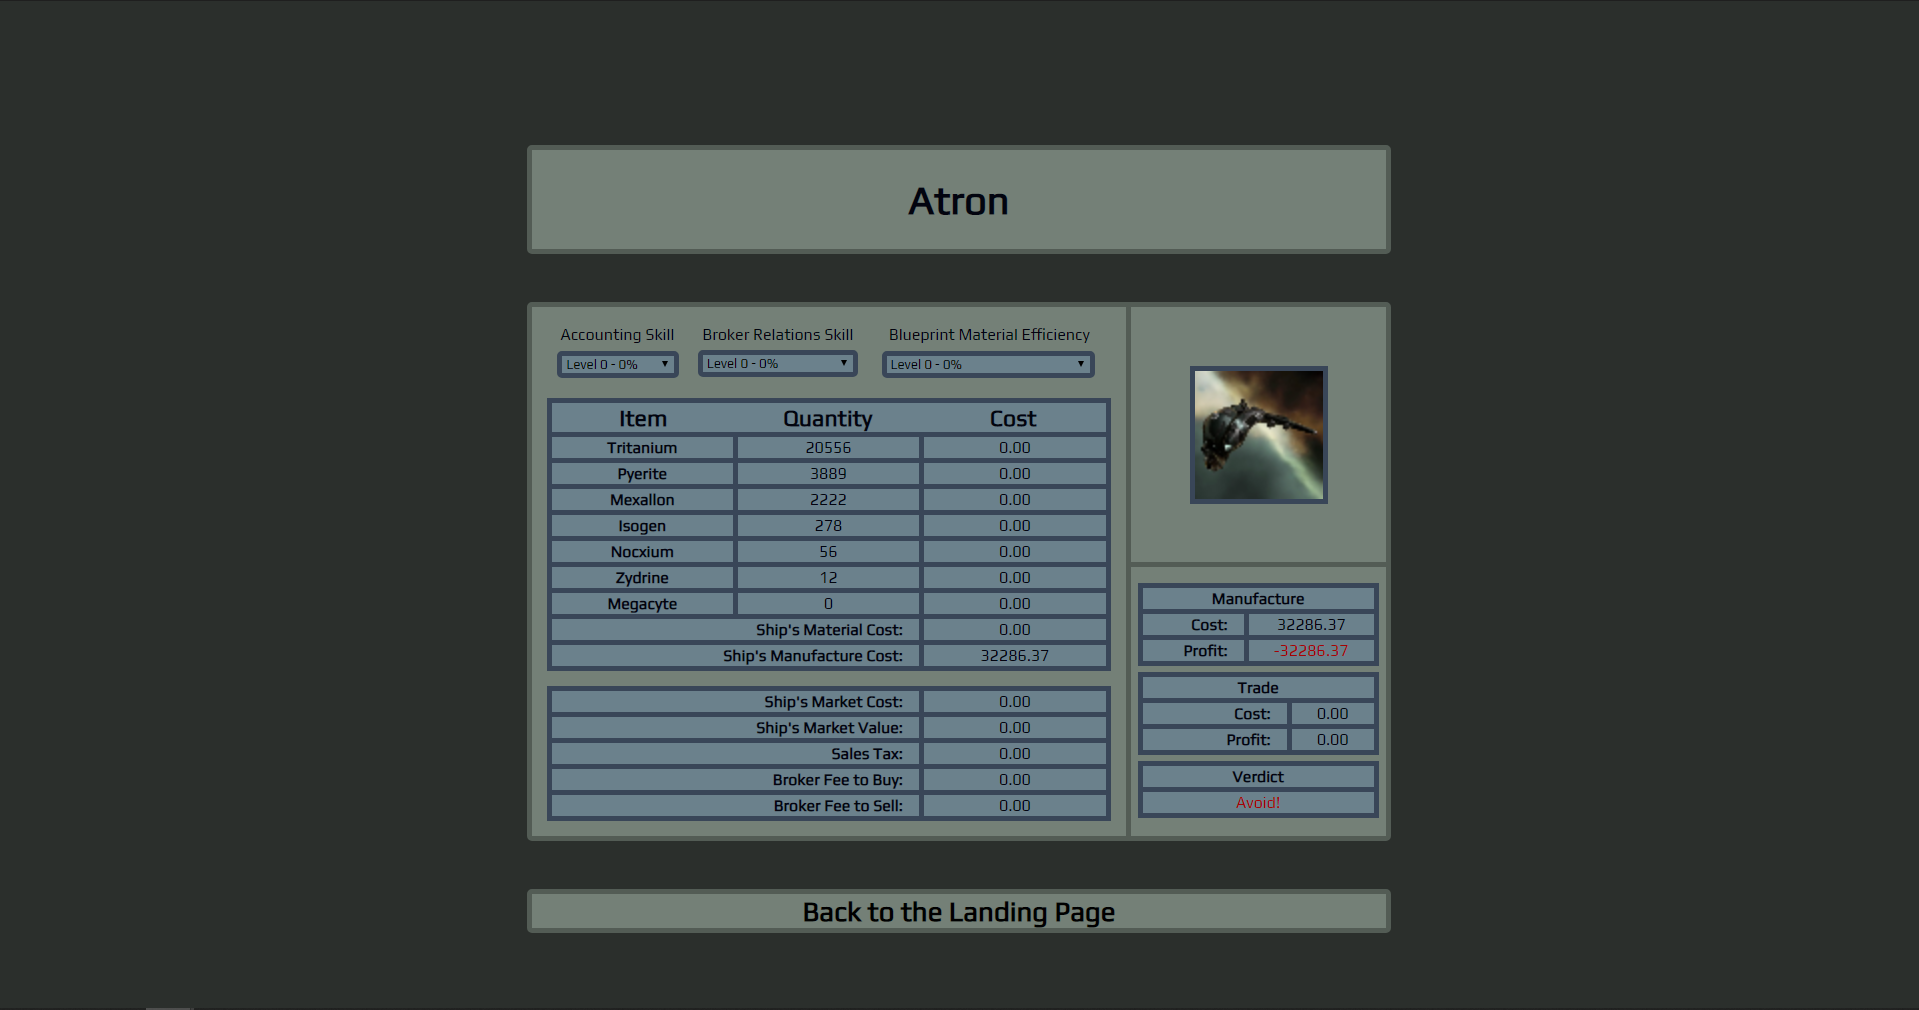
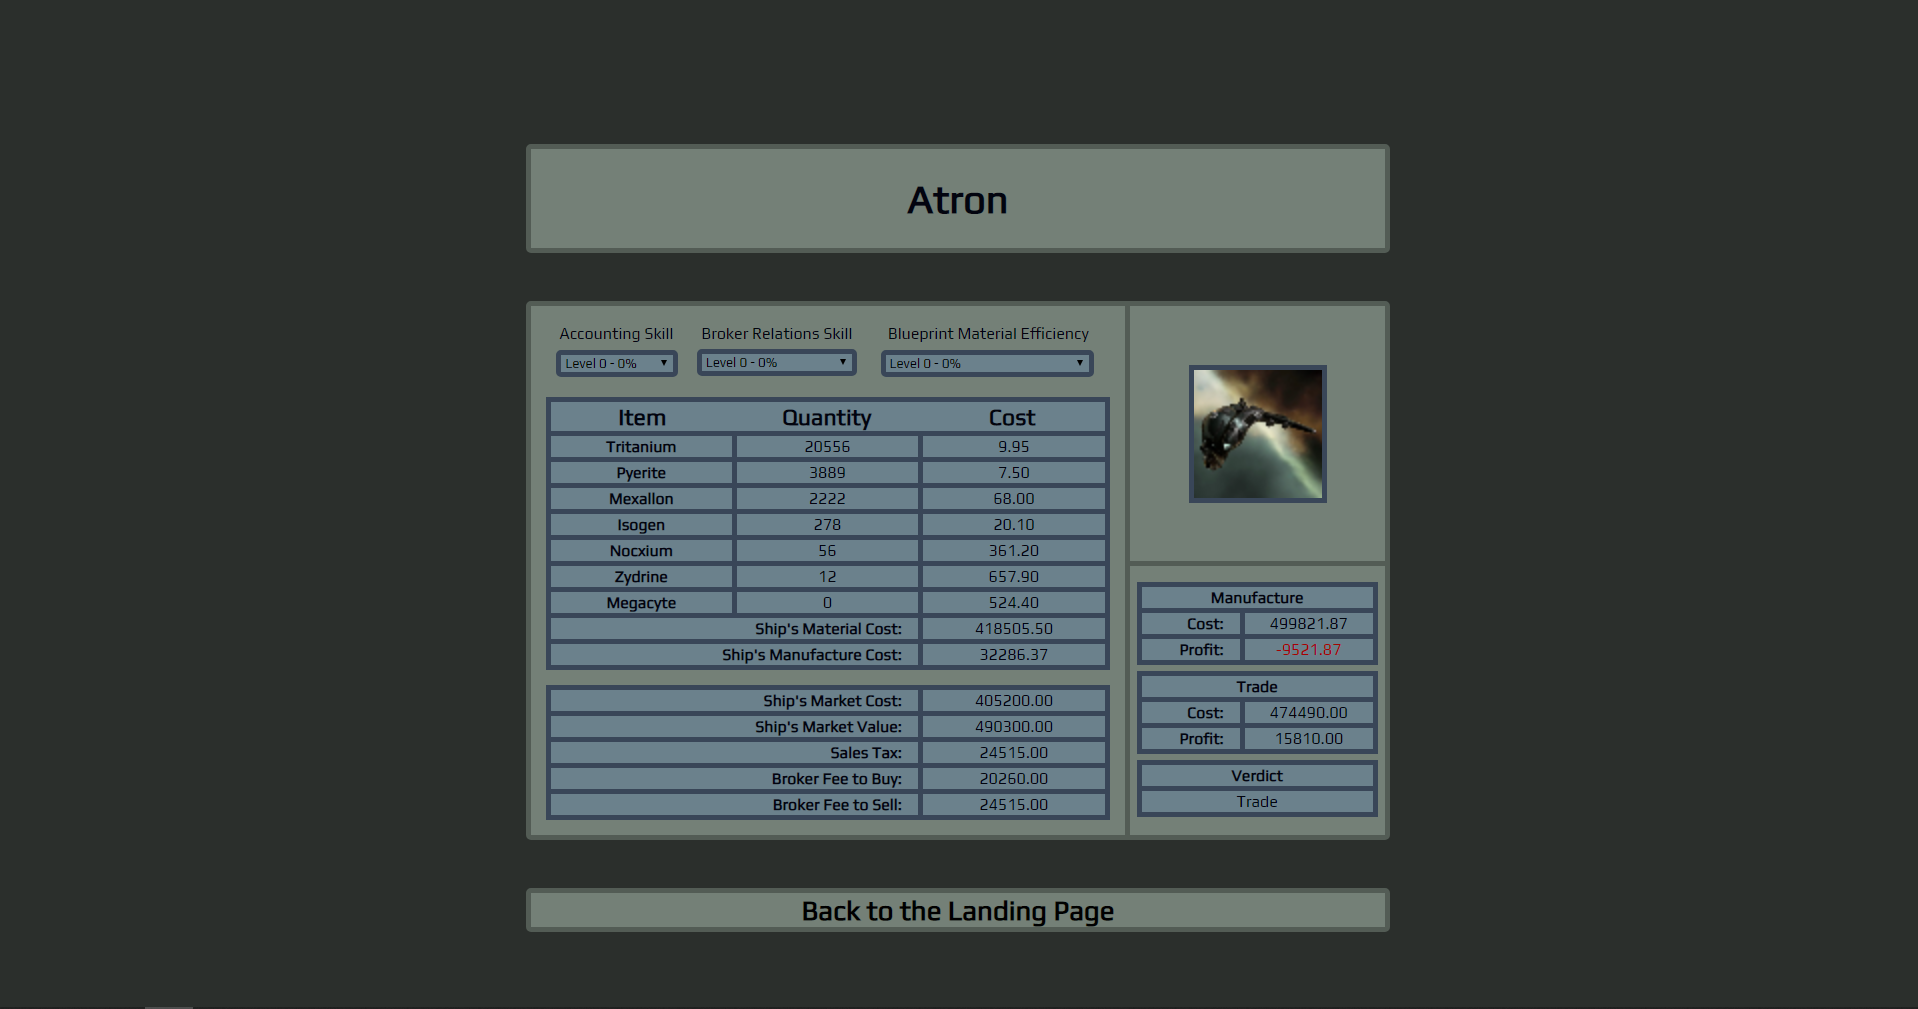
Replaced images of website when external API was down and references to it in README.md + DeploymentInstructions.txt.

diff --git a/README.md b/README.md
@@ -62,7 +62,7 @@ No popups are used but an accordion-style dropdown list is implemented. Dependin
     * Create a csi3140project database. Then import 'csi3140project.sql' into that database.
   * Navigate to localhost/csi3140project
     * If setup succeeded then the webpage should match example images (as shown below), if not then the login settings may need to be changed in index.php, Directory.php, and SearchResults.php
-    * At the time of the screenshots below, the remote API had a bad pull of data and so values are showing as 0. Hopefully this gets corrected by the time you are able to implement the project. Values can be compared against https://market.fuzzwork.co.uk/.
+    * Values can be compared against https://market.fuzzwork.co.uk/.
 - - - -
 ![Example Index](csi3140project/ExampleIndex.PNG)
 ![Example Index Feature](csi3140project/ExampleIndex2.PNG)
